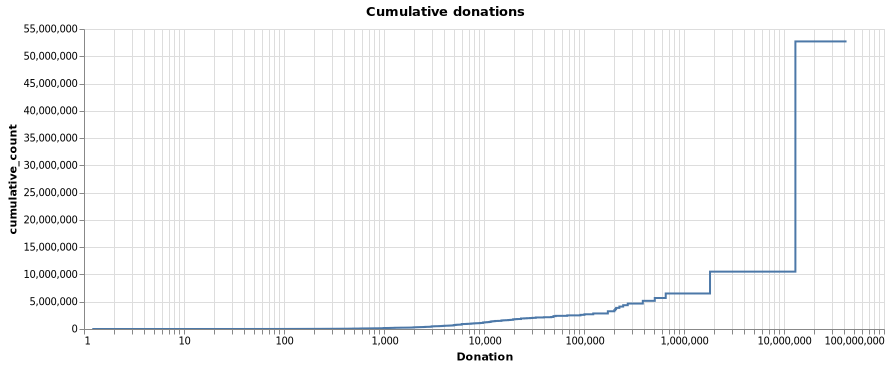
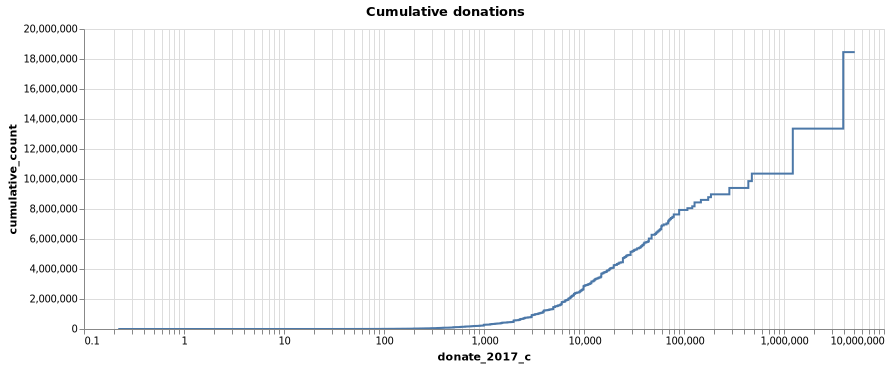
use cleaned up data

diff --git a/ea-survey/individual-donations/dimple.html b/ea-survey/individual-donations/dimple.html
@@ -6,7 +6,7 @@
 <script src="//cdnjs.cloudflare.com/ajax/libs/dimple/2.3.0/dimple.latest.min.js"></script>
 <script type="text/javascript">
   var svg = dimple.newSvg("#chartContainer", 590, 400);
-  d3.csv("./indiidual donations.csv", function (data) {
+  d3.csv("./../data/donate_2017_c.csv", function (data) {
 
     var parsedData = data.map(row => {
       return {
@@ -17,7 +17,7 @@
     var myChart = new dimple.chart(svg, parsedData);
     myChart.setBounds(60, 30, 510, 305)
 
-    var x = myChart.addCategoryAxis("x", "Donation");
+    var x = myChart.addCategoryAxis("x", "donate_2017_c");
 
     x.addOrderRule("Date");
 
